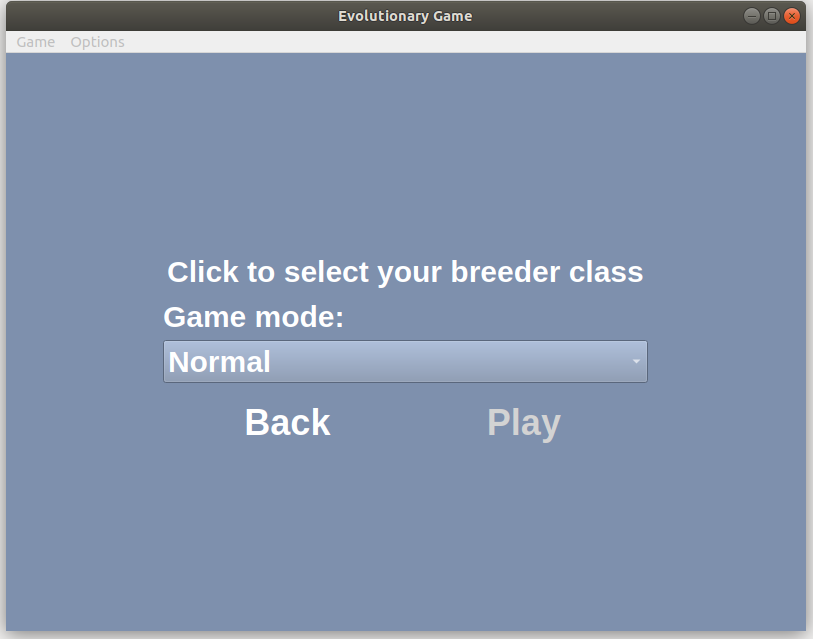
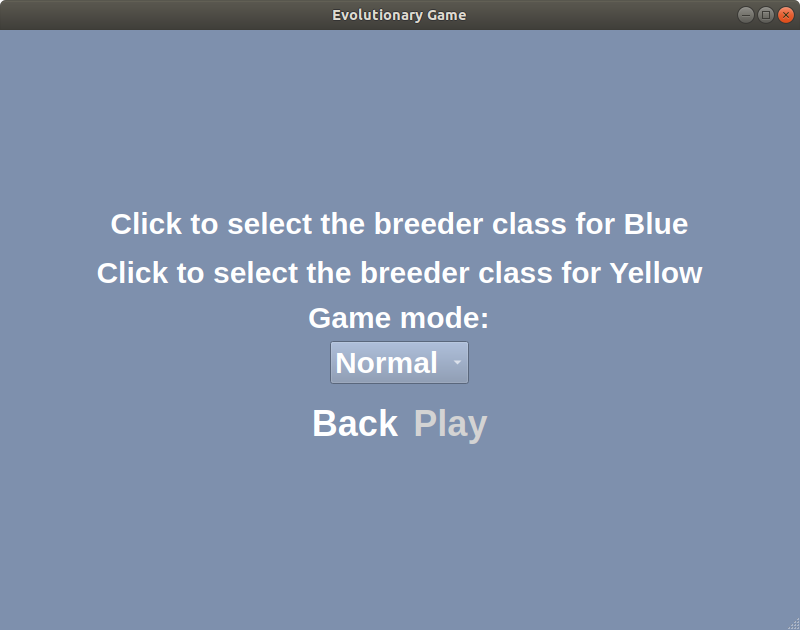
updated readme, cleaned up code

Changed region(s): [[0.0, 0.0, 1.0, 1.0], [0.1875, 0.4825, 0.8125, 0.6937], [0.125, 0.3317, 0.875, 0.4524]]

diff --git a/gui/main_window.py b/gui/main_window.py
@@ -11,9 +11,11 @@ from time import sleep
 class App(QMainWindow):
     def __init__(self, config, fastmode=False, fastmode_runs=0, parent=None):
         super(App, self).__init__(parent=parent)
+        
         self.toggleDebug = False
         self.selectedBreederBlue = False
         self.selectedBreederYellow = False
+        
         self.config = config
         self.fastmode = fastmode
         self.fastmode_runs = fastmode_runs
@@ -72,84 +74,78 @@ class App(QMainWindow):
         self.optionMenu.setEnabled(False)
         self.mainMenu.setVisible(False)
 
-
         self.statusbar = self.statusBar()
 
 
     def init_main_frame(self):
         """
-        Initialize the Main Menu (start screen)
+        Initialize the Main Menu GUI (start screen)
         """
-        self.main_frame = QFrame(self)
-
-        
+        self.main_frame = QFrame(self)      
         self.main_frame.setStyleSheet("background-color: rgb(126, 144, 173)")
-
         self.main_frame.setFrameShape(QFrame.StyledPanel)
         self.main_frame.setFrameShadow(QFrame.Raised)
-        self.main_frame.resize(self.width(), self.height())
+        self.main_frame.resize(self.width(), self.height()) #adaptive size to ensure correct size when resizing
 
-        self.verticalLayoutWidget = QWidget(self.main_frame)
-        self.verticalLayoutWidget.resize(self.width(), self.height())
+        self.mainVerticalLayoutWidget = QWidget(self.main_frame)
+        self.mainVerticalLayoutWidget.resize(self.width(), self.height())
         
-        self.verticalLayout = QVBoxLayout(self.verticalLayoutWidget)
-        self.verticalLayout.setContentsMargins(0, 0, 0, 0)
-        self.verticalLayout.setAlignment(Qt.AlignCenter)
+        self.mainVerticalLayout = QVBoxLayout(self.mainVerticalLayoutWidget)
+        self.mainVerticalLayout.setContentsMargins(0, 0, 0, 0)
+        self.mainVerticalLayout.setAlignment(Qt.AlignCenter)
     
-        self.pushButton = QPushButton("Play New Game", self.verticalLayoutWidget)
+        self.pushButton = QPushButton("Play New Game", self.mainVerticalLayoutWidget)
         self.pushButton.setFlat(True)
         self.pushButton.setStyleSheet("color: white; font-weight: bold;font-size: 36px; font-family: Helvetica, sans-serif;")
-        
         self.pushButton.clicked.connect(self.handlePlayButtonMainMenu)
-        self.verticalLayout.addWidget(self.pushButton)
 
-        self.pushButton_3 = QPushButton("Options",self.verticalLayoutWidget)
-        self.pushButton_3.setFlat(True)
-        self.pushButton_3.setStyleSheet("color: white; font-weight: bold; font-size: 36px; font-family: Helvetica, sans-serif;")
-        self.pushButton_3.clicked.connect(self.handleOptionsButton)
-        self.verticalLayout.addWidget(self.pushButton_3)
-
-        self.pushButton_2 = QPushButton("Quit", self.verticalLayoutWidget)
+        self.pushButton_2 = QPushButton("Options",self.mainVerticalLayoutWidget)
         self.pushButton_2.setFlat(True)
         self.pushButton_2.setStyleSheet("color: white; font-weight: bold; font-size: 36px; font-family: Helvetica, sans-serif;")
-        self.pushButton_2.clicked.connect(self.handleExitButton)
-        self.verticalLayout.addWidget(self.pushButton_2)
+        self.pushButton_2.clicked.connect(self.handleOptionsButton)
+        
+        self.pushButton_3 = QPushButton("Quit", self.mainVerticalLayoutWidget)
+        self.pushButton_3.setFlat(True)
+        self.pushButton_3.setStyleSheet("color: white; font-weight: bold; font-size: 36px; font-family: Helvetica, sans-serif;")
+        self.pushButton_3.clicked.connect(self.handleExitButton)
+
+        self.mainVerticalLayout.addWidget(self.pushButton)
+        self.mainVerticalLayout.addWidget(self.pushButton_2)
+        self.mainVerticalLayout.addWidget(self.pushButton_3)
     
 
     def init_options(self):
         """
-        Initialize the Options Menu
+        Initialize the Options Menu UI
         """
         self.opt_frame = QFrame(self)
         self.opt_frame.setStyleSheet("background-color: rgb(126, 144, 173)")
-
         self.opt_frame.setFrameShape(QFrame.StyledPanel)
         self.opt_frame.setFrameShadow(QFrame.Raised)
         self.opt_frame.resize(self.width(), self.height())
 
-        self.vertLayoutW = QWidget(self.opt_frame)
-        self.vertLayoutW.resize(self.width(), self.height())
+        self.optVertLayoutW = QWidget(self.opt_frame)
+        self.optVertLayoutW.resize(self.width(), self.height())
 
-        self.vertLayout = QVBoxLayout(self.vertLayoutW)
-        self.vertLayout.setContentsMargins(0, 0, 0, 0)
-        self.vertLayout.setAlignment(Qt.AlignCenter)
+        self.optVertLayout = QVBoxLayout(self.optVertLayoutW)
+        self.optVertLayout.setContentsMargins(0, 0, 0, 0)
+        self.optVertLayout.setAlignment(Qt.AlignCenter)
 
-        self.backButton = QPushButton("Back", self.vertLayoutW)
+        self.backButton = QPushButton("Back", self.optVertLayoutW)
         self.backButton.setFlat(True)
         self.backButton.setStyleSheet("color: white; font-weight: bold; font-size: 36px; font-family: Helvetica, sans-serif;")
-
         self.backButton.clicked.connect(self.backButtonPressed)
         self.backButton.resize(self.backButton.minimumSizeHint())
 
-        self.checkBox = QCheckBox("Show Debug options", self.vertLayoutW)
+        self.checkBox = QCheckBox("Show Debug options", self.optVertLayoutW)
         self.checkBox.toggled.connect(self.toggleOptions)
+        self.checkBox.setStyleSheet("QCheckBox{ color: white; font-weight: bold; font-size: 30px; font-family: Helvetica, sans-serif;} QCheckBox::indicator { width: 25px; height: 25px;};")    
         
         if self.toggleDebug == True:
             self.checkBox.setChecked(True)
 
-        self.checkBox.setStyleSheet("QCheckBox{ color: white; font-weight: bold; font-size: 30px; font-family: Helvetica, sans-serif;} QCheckBox::indicator { width: 25px; height: 25px;};")    
-        self.vertLayout.addWidget(self.checkBox, 0, Qt.AlignCenter)
-        self.vertLayout.addWidget(self.backButton, 0, Qt.AlignCenter)
+        self.optVertLayout.addWidget(self.checkBox, 0, Qt.AlignCenter)
+        self.optVertLayout.addWidget(self.backButton, 0, Qt.AlignCenter)
 
    
 
@@ -159,7 +155,6 @@ class App(QMainWindow):
         """
         self.pregame_frame = QFrame(self)
         self.pregame_frame.setStyleSheet("background-color: rgb(126, 144, 173)")
-
         self.pregame_frame.setFrameShape(QFrame.StyledPanel)
         self.pregame_frame.setFrameShadow(QFrame.Raised)
         self.pregame_frame.resize(self.width(), self.height())
@@ -210,11 +205,11 @@ class App(QMainWindow):
         self.preHorizontalLayout.addWidget(self.preBackButton)
         self.preHorizontalLayout.addWidget(self.playButton)
 
-        self.preVertLayout.addWidget(self.selectorButton)
-        self.preVertLayout.addWidget(self.selector2Button)
-        self.preVertLayout.addWidget(self.modeText)
-        self.preVertLayout.addWidget(self.modeSelect)
-        self.preVertLayout.addWidget(self.preHorizontalLayoutW)
+        self.preVertLayout.addWidget(self.selectorButton, 0, Qt.AlignCenter)
+        self.preVertLayout.addWidget(self.selector2Button, 0, Qt.AlignCenter)
+        self.preVertLayout.addWidget(self.modeText, 0, Qt.AlignCenter)
+        self.preVertLayout.addWidget(self.modeSelect, 0, Qt.AlignCenter)
+        self.preVertLayout.addWidget(self.preHorizontalLayoutW, 0, Qt.AlignCenter)
 
         # only press play when a breeder is selected
         self.playButton.setEnabled(False)
@@ -226,7 +221,6 @@ class App(QMainWindow):
         """
         self.gameover_frame = QFrame(self)
         self.gameover_frame.setStyleSheet("background-color: rgb(126, 144, 173)")
-
         self.gameover_frame.setFrameShape(QFrame.StyledPanel)
         self.gameover_frame.setFrameShadow(QFrame.Raised)
         self.gameover_frame.resize(self.width(), self.height())
@@ -262,13 +256,12 @@ class App(QMainWindow):
         self.quitGameButton.setStyleSheet("color: white; font-weight: bold; font-size: 36px; font-family: Helvetica, sans-serif;")
         self.quitGameButton.clicked.connect(self.handleExitButton)
 
-
         self.overHorizontalLayout.addWidget(self.playAgainButton)
         self.overHorizontalLayout.addWidget(self.backToMMButton)
         self.overHorizontalLayout.addWidget(self.quitGameButton)
 
-        self.overVertLayout.addWidget(self.gameOverText)
-        self.overVertLayout.addWidget(self.overHorizontalLayoutW)
+        self.overVertLayout.addWidget(self.gameOverText, 0, Qt.AlignCenter)
+        self.overVertLayout.addWidget(self.overHorizontalLayoutW, 0, Qt.AlignCenter)
 
 
     def play_game(self):
@@ -280,7 +273,7 @@ class App(QMainWindow):
         self.mainMenu.setVisible(True)
         self.gameMenu.setEnabled(True)
         self.optionMenu.setEnabled(True)
-        
+        # reset so classes need to be selected again when a new game is played
         self.selectedBreederBlue = False
         self.selectedBreederYellow = False
         # check whether debug settings were enabled in the options menu
@@ -391,6 +384,7 @@ class App(QMainWindow):
         """
         A mode in the pregame screen was selected, change game mode
         """
+        # set to lower case so the background image selection in game_frame.py works
         self.selectedMode = self.modeSelect.currentText().lower()
 
 
@@ -426,19 +420,18 @@ class App(QMainWindow):
         try:    
             if hasattr(self, 'main_frame') and self.main_frame is not None:
                 self.main_frame.resize(self.width(), self.height())
-                if hasattr(self, 'verticalLayoutWidget') and self.verticalLayoutWidget is not None:
-                    self.verticalLayoutWidget.resize(self.width(), self.height())
+                if hasattr(self, 'mainVerticalLayoutWidget') and self.mainVerticalLayoutWidget is not None:
+                    self.mainVerticalLayoutWidget.resize(self.width(), self.height())
             
             if hasattr(self, 'pregame_frame') and self.pregame_frame is not None:
                 self.pregame_frame.resize(self.width(), self.height())
                 if hasattr(self, 'preVertLayoutW') and self.preVertLayoutW is not None:
                     self.preVertLayoutW.resize(self.width(), self.height())
-                    print("resizing preVertLayoutW")
 
             if hasattr(self, 'opt_frame') and self.opt_frame is not None:    
                 self.opt_frame.resize(self.width(), self.height())
-                if hasattr(self, 'vertLayoutW') and self.vertLayoutW is not None:
-                    self.vertLayoutW.resize(self.width(), self.height())
+                if hasattr(self, 'optVertLayoutW') and self.optVertLayoutW is not None:
+                    self.optVertLayoutW.resize(self.width(), self.height())
 
             if hasattr(self, 'game_frame') and self.game_frame is not None:        
                 self.game_frame.resize_frame(self.width(), self.height())
@@ -467,6 +460,7 @@ class App(QMainWindow):
         checks if two files were selected, if yes, load the classes and enable the play button
         """
         if self.selectedBreederBlue == True and self.selectedBreederYellow == True:
+            #enable play button
             self.playButton.setStyleSheet("color: white; font-weight: bold; font-size: 36px; font-family: Helvetica, sans-serif;")
             self.playButton.setEnabled(True)        
             self.optimizers = self.load_breeders(self.breederBluePath, self.breederYellowPath)

diff --git a/gui/game_frame.py b/gui/game_frame.py
@@ -14,6 +14,7 @@ class GameFrame(QFrame):
         self.parent_window = parent
         self.config = parent.config
         self.global_config = parent.global_config
+        
         if frame_width is None and frame_height is None:
             self.frame_dimension = (self.global_config['frame']['width'],
                                    self.global_config['frame']['height']) 
@@ -24,12 +25,14 @@ class GameFrame(QFrame):
             self.game_speed = 0
         else:
             self.game_speed = self.global_config['game_speed']
+        
         self.gameMode = gameMode
+        
         self.init_frame()
-        self.resize(self.frame_dimension[0],
-                          self.frame_dimension[1])
+        
+        self.resize(self.frame_dimension[0], self.frame_dimension[1])
+        
         self.set_background()
-
                 
 
     def set_background(self):
@@ -51,6 +54,7 @@ class GameFrame(QFrame):
         self.resize(width, height)
         self.frame_dimension = (width, height)
 
+    
     def open_statistics(self):
         """
         open a new window to display population details
@@ -99,8 +103,10 @@ class GameFrame(QFrame):
             self.game.update()
         self.update()
 
+
     def stop_timer(self):
         self.timer.stop()
+
 
     def timerEvent(self, event):
         """

diff --git a/main.py b/main.py
@@ -19,7 +19,6 @@ if __name__ == "__main__":
         sys.exit(0)
     config_path = sys.argv[1]
     config = Config(config_path)
-    
     # fast mode additional parameter: bool enabled, int runs
     # change if fast mode you need the parameters, otherwise only "python3 ./main.py"
     fastmode = False
@@ -28,7 +27,6 @@ if __name__ == "__main__":
         fastmode = sys.argv[4]
         fastmode_runs = int(sys.argv[5])
         threads = []
-
         optimizer1_path = sys.argv[2]
         optimizer2_path = sys.argv[3] 
         spec1 = importlib.util.spec_from_file_location("opti1", optimizer1_path)

diff --git a/game/egame.py b/game/egame.py
@@ -218,6 +218,7 @@ class EGame:
         # check if all individuals are dead
         if all_dead:
             self.result, self.winner_color = self.end_game()
+            # trigger end game screen 
             self.parent.parent_window.game_over(self.winner_color)
 
     

diff --git a/README.md b/README.md
@@ -5,7 +5,7 @@ EGame is a competitive evolutionary game designed by the research group Intellig
 Two populations compete to survive in a changing environment.
 Endangered by extinction, hunting predators, and other factors.
 
-![game](./documentation/game.png)
+![game](./documentation/new_game.png)
 
 # Requirements
 - Python3
@@ -42,15 +42,21 @@ pip install numpy pyqt5
 # Run the Game
 
 ```
-python3 main.py <config> <blue breeder class> <yellow breeder class>
-# e.g:
-python3 main.py config.json genetic_algorithm/breeder.py genetic_algorithm/breeder_aggressive.py
+./run.sh
 ```
+or
+```
+python3 main.py <config>
+# e.g:
+python3 main.py config.json 
+```
+# Start a new Game
+![pregame](./documentation/pregame.png)<br>
+To start a new game, press *Play new game* and, in the next screen, select the two breeder classes that should play against each other by pressing the buttons. A file selector will appear. When both classes are selected, you can play.
 
 # Game Elements
-
 ## Individuals of populations
-![individual](./documentation/individual.png)<br>
+![individual](./documentation/blue1.png)<br>
 Populations consist of individuals which have certain traits, abilities and perceptions.
 To survive, an individual has to eat something; for example, food, poison, heal potions and corpses.
 They can attack individuals of other populations (but no predators) or be attacked by individuals of other populations or predators.
@@ -92,27 +98,27 @@ After a defined amount of frames, new individuals are bred into the populations 
 Bad performing individuals die due to natural selection and good performing individuals survive, enabling them to multiply.
 
 ## Predators
-![predator](./documentation/predator.png)<br>
+![predator](./documentation/predator1.png)<br>
 Predators are individuals which follow a defined rule set.
 All have the same perception radius to seek individuals of the player populations and corpses.
 In addition, they desire to seek individuals and corpses equally.
 
 ## Items
 ### Food
-![food](./img/food4_scaled20.png)<br>
+![food](./img/food.png)<br>
 Food only increases health points of individuals who eat it.
 
 ### Poison
-![food](./img/mushroom_kenny.png)<br>
+![food](./img/poison.png)<br>
 Poison increases the internal toxicity of an individual.
 The more poison an individual eats, the faster its health decreases.
 
 ### Heal Potions
-![food](./img/hp_potion_shadow_scaled20.png)<br>
+![food](./img/heal_potion.png)<br>
 Health potions reset the poison count and increase the health by a small amount.
 
 ### Corpses
-![food](./img/meat.png)<br>
+![food](./img/corpse_yellow.png)<br>
 Corpses are like food, only that they contain a fraction of the poison of the dead individual.
 
 # Task
@@ -152,5 +158,6 @@ class Breeder:
 
 
 # Goal of the Game
+![endgame](./documentation/gameover.png)<br>
 Let your population survive longer than the population of your opponent!
 If all individuals of a population are dead, the round ends and the surviving population wins!
